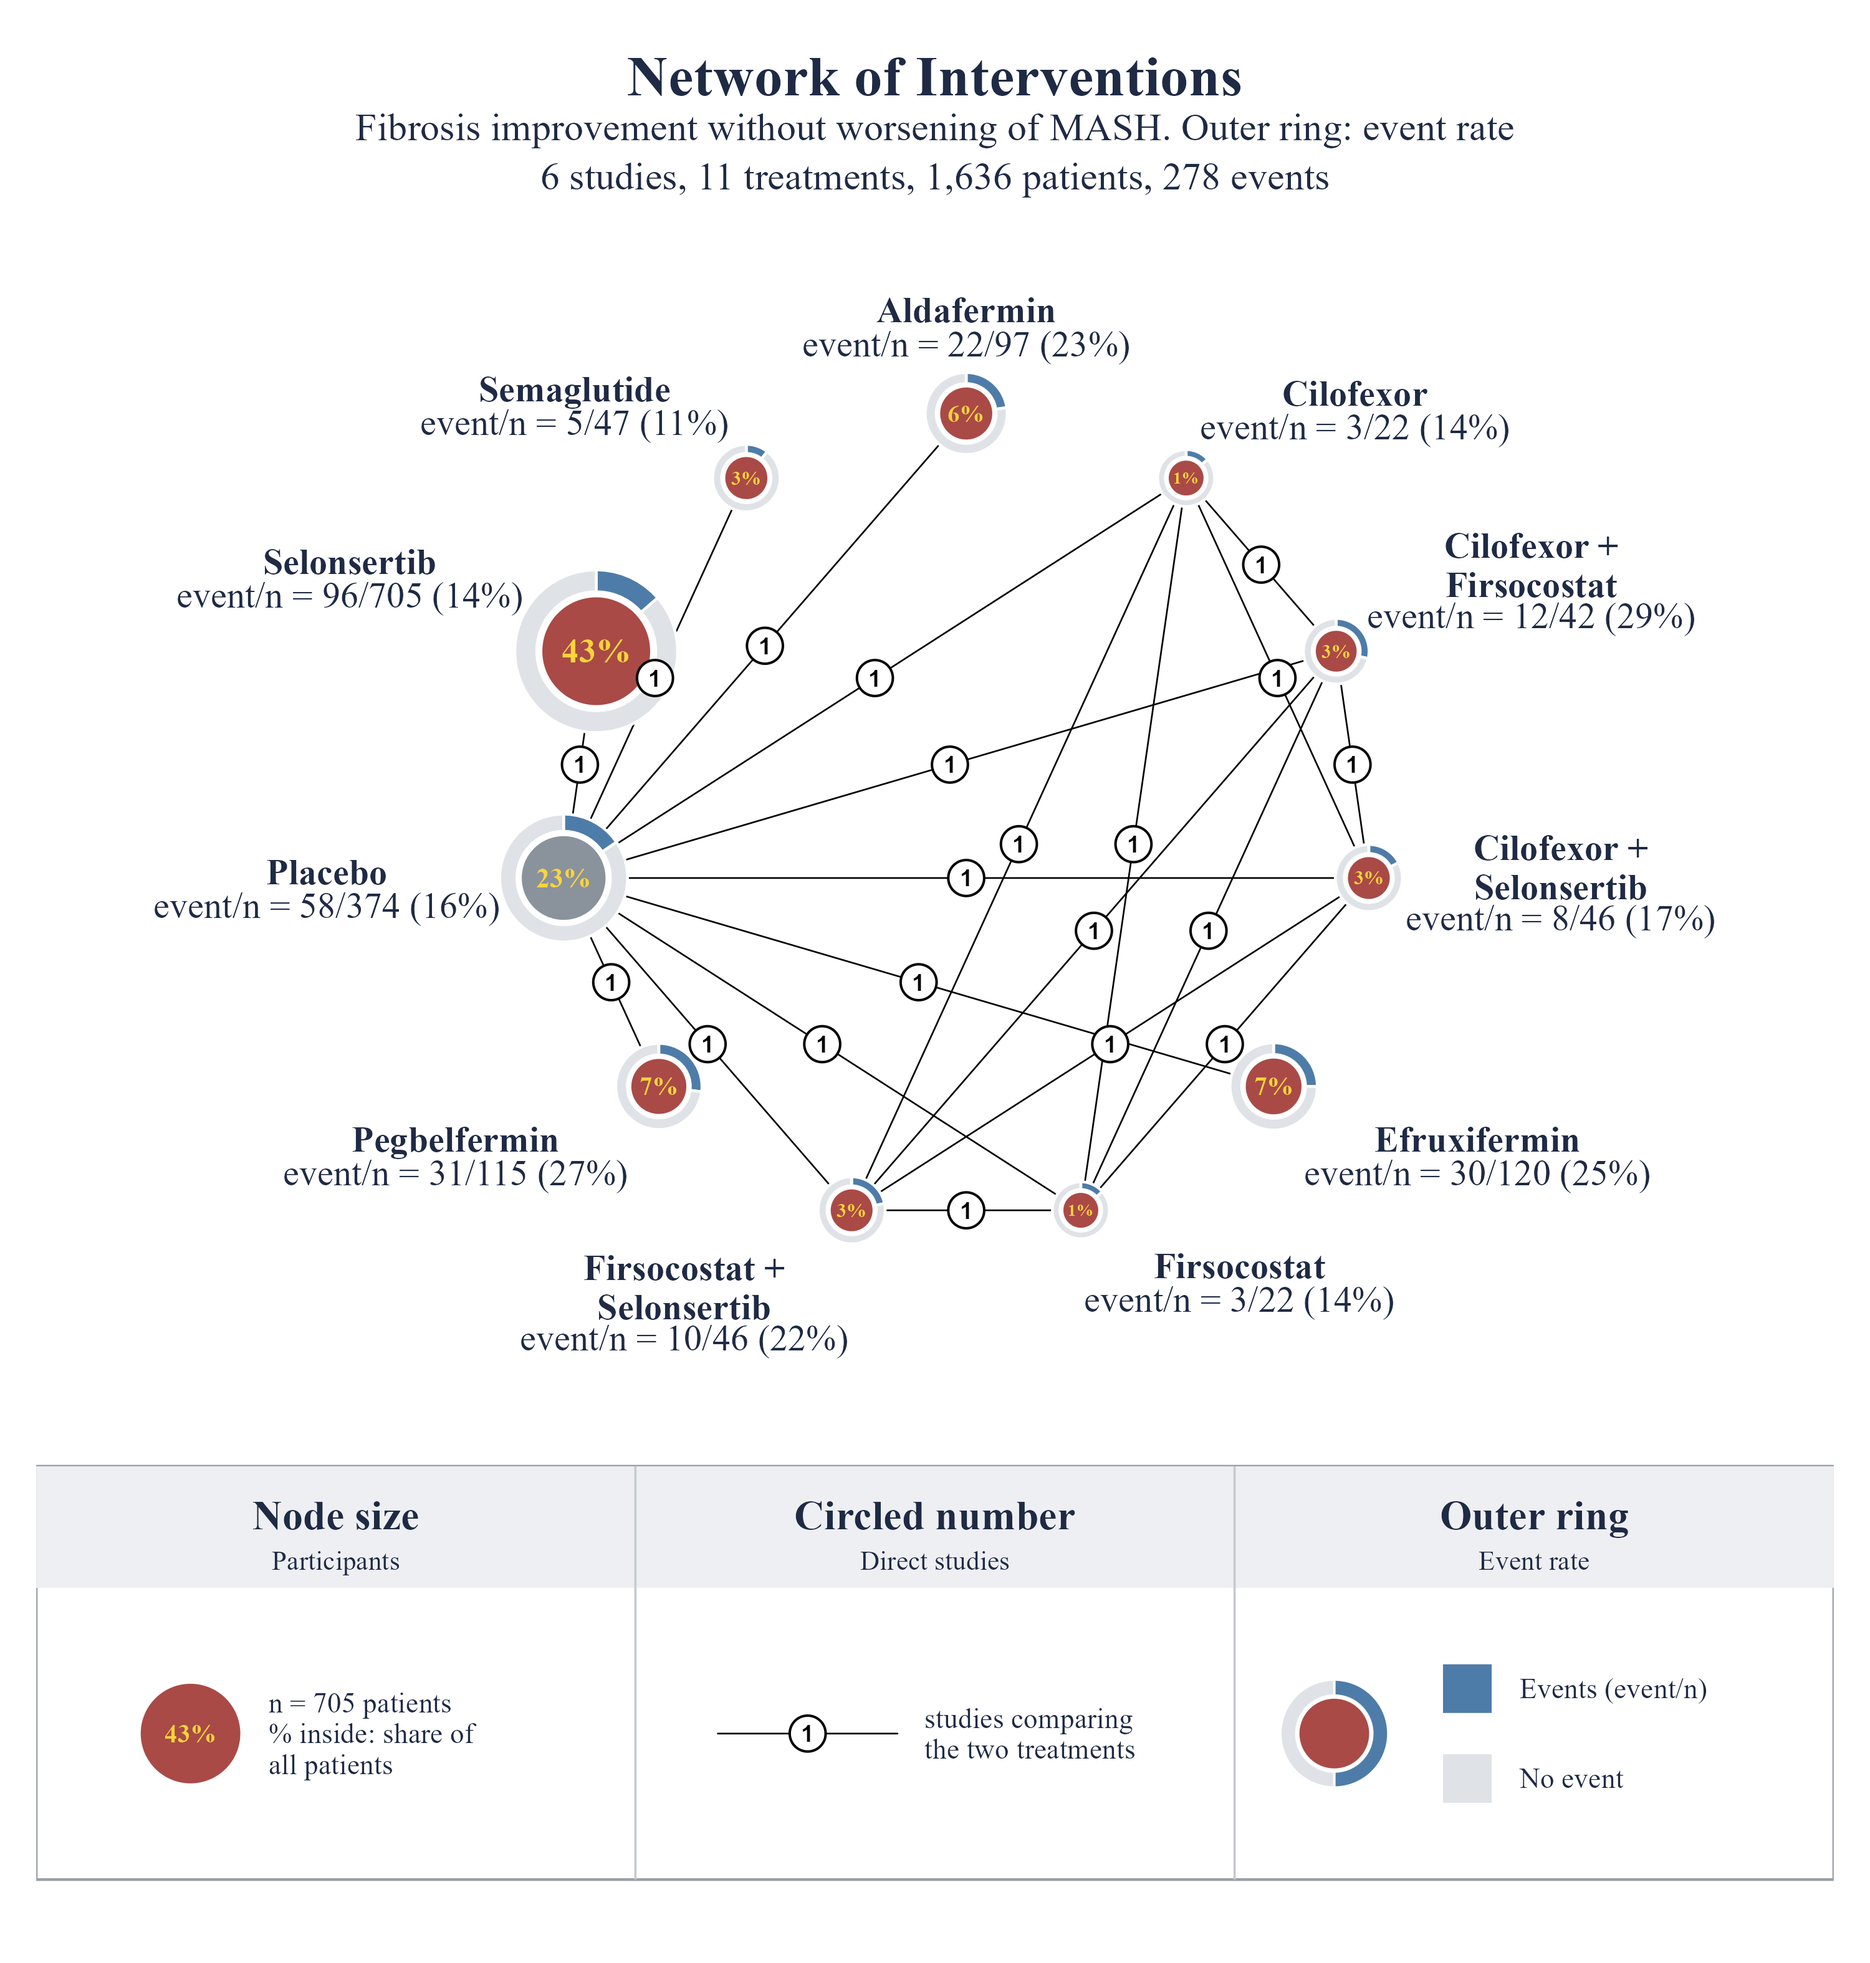
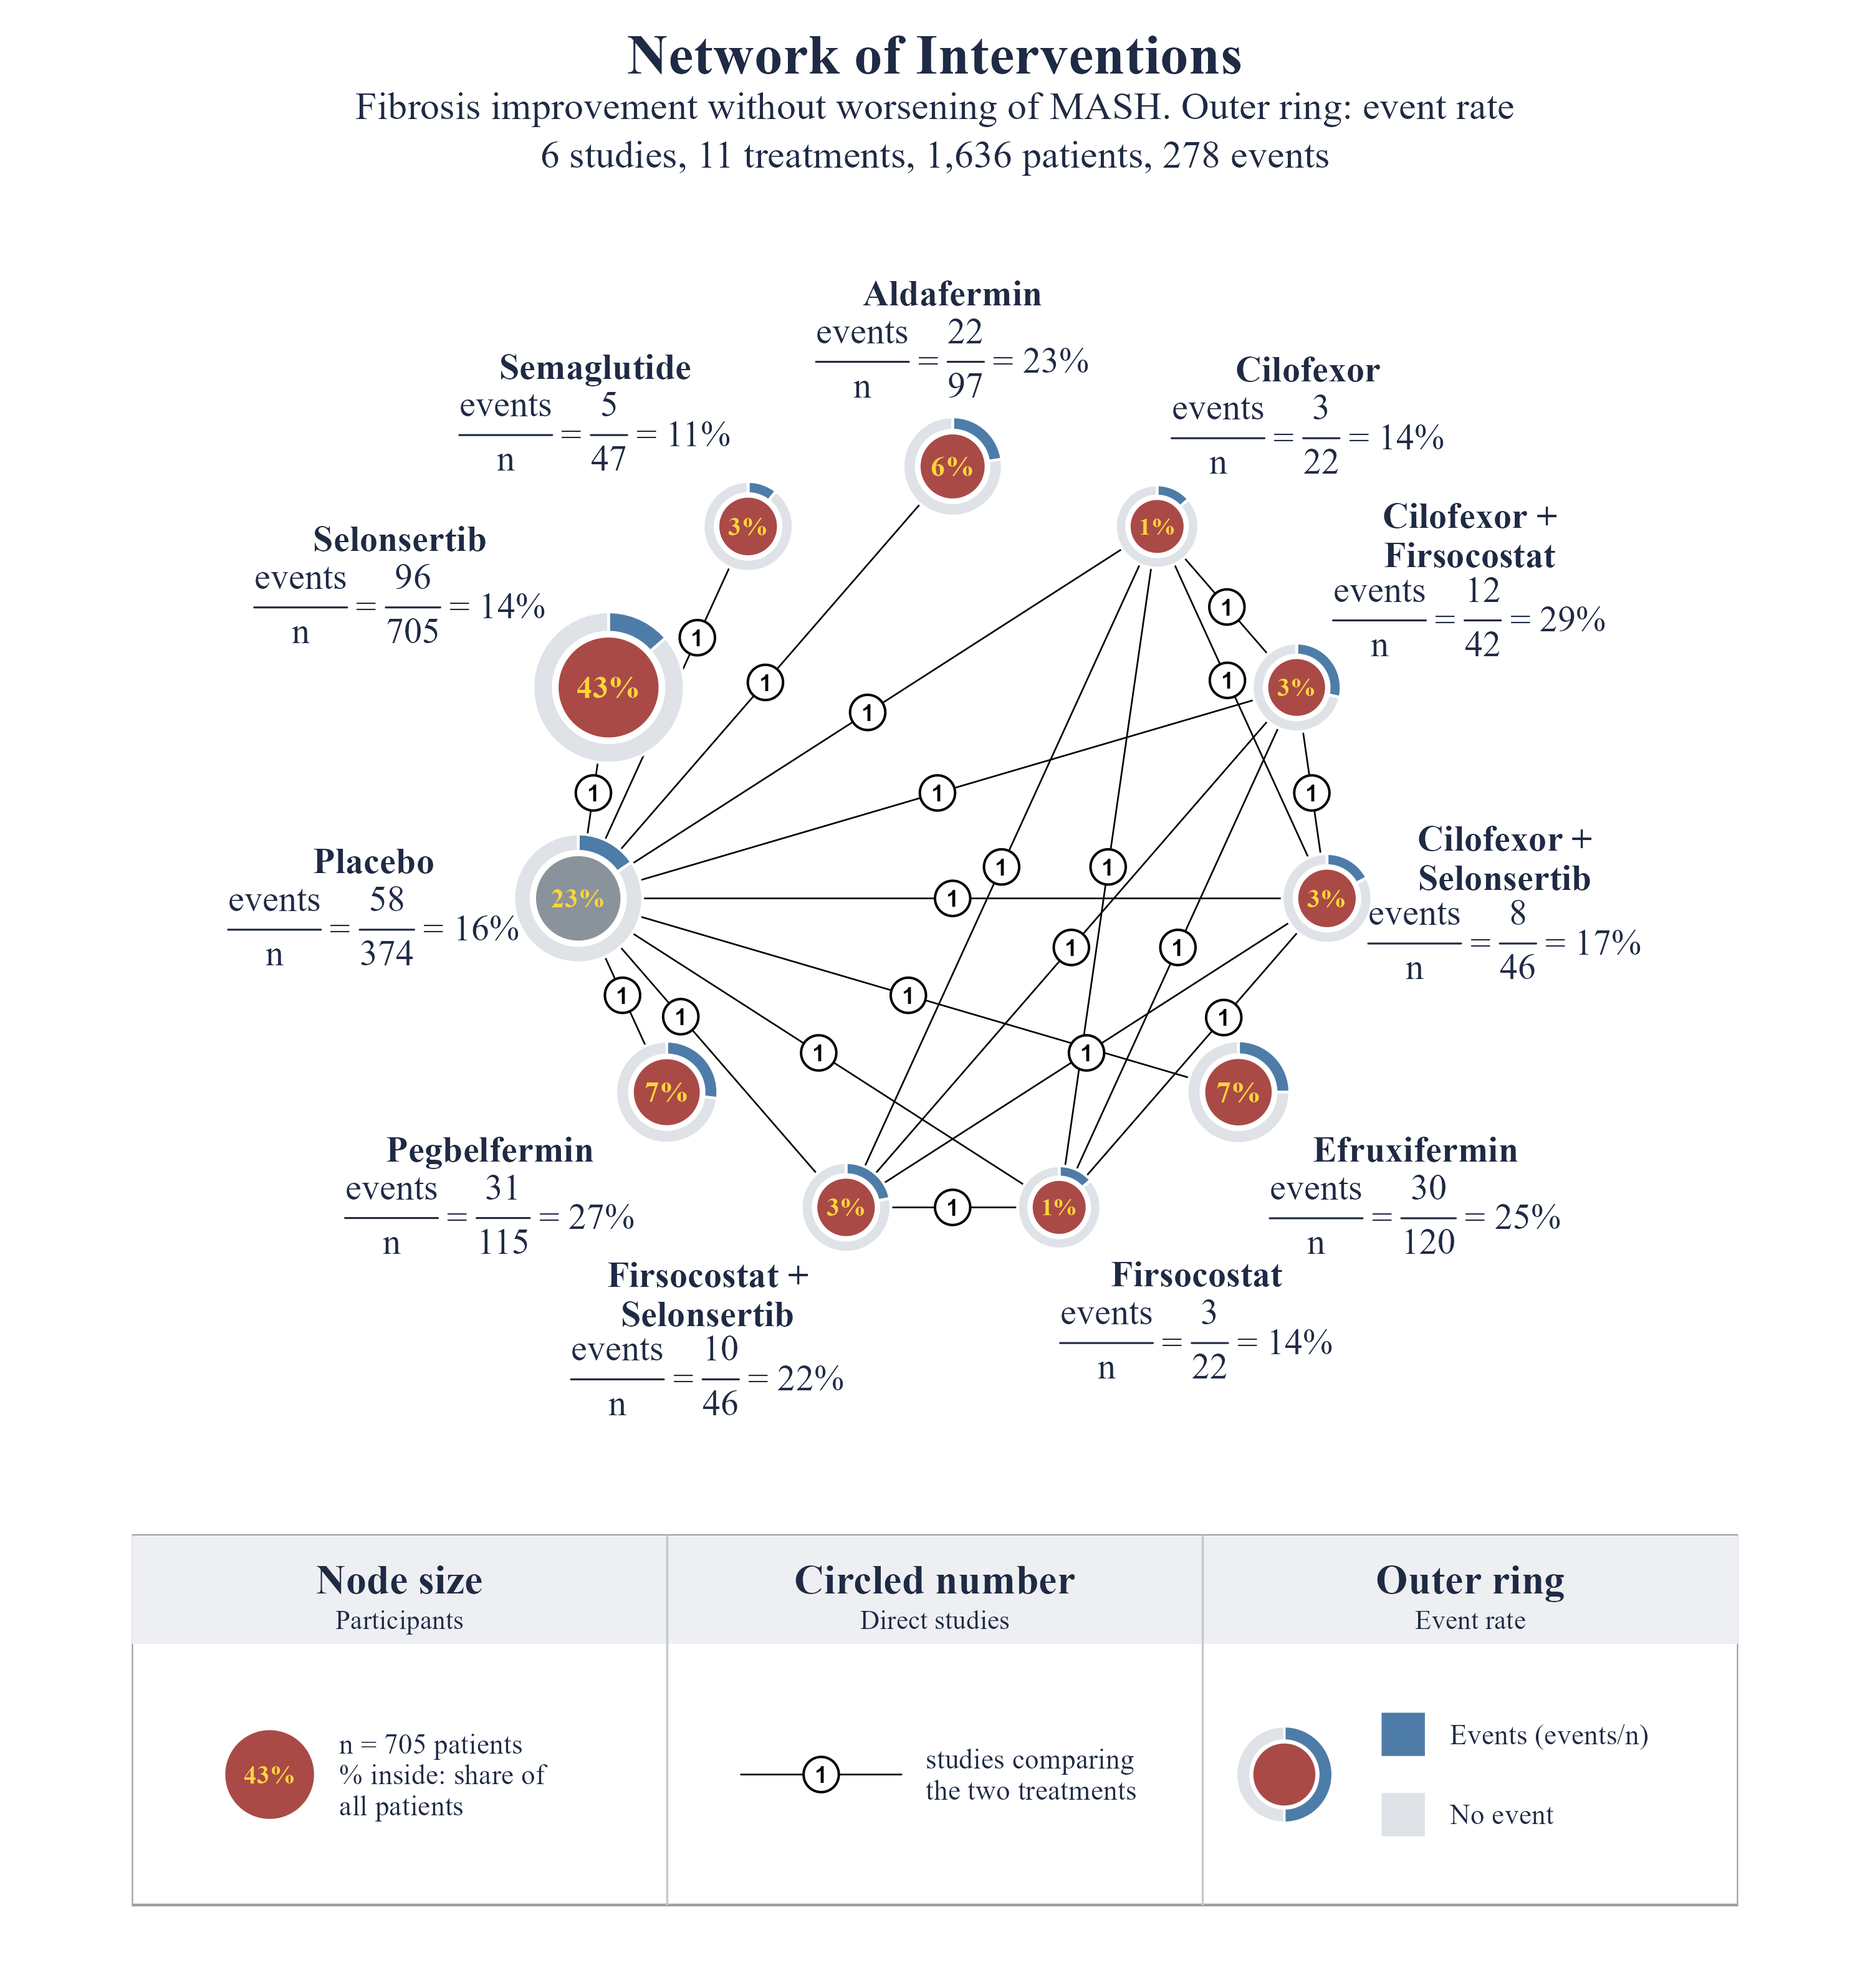
feat: fraction labels, closer node sizes, study counts clear of rings
The count line of binary networks is drawn with plotmath as three parts:
events over n = counts over n = rate ("= 14%"), replacing
"event/n = 96/705 (14%)"; the plain text stays in nodes$nline. Label
blocks reserve room for the taller fraction row.

node_size_range defaults to c(0.11, 0.2): area still follows the sample
size, but the smallest discs are big enough for the share printed inside.

clear_edge_labels() slides a circled study count along its edge when it
would sit on a node or its outer ring.

README figure, tutorial images and docs regenerated.

diff --git a/tutorial/tutorial.html b/tutorial/tutorial.html
@@ -242,7 +242,8 @@ net &lt;- <span class="f">netmeta</span>(p)
       <figure class="plotcard">
         <img src="../man/figures/tutorial-plot.png" alt="Network plot drawn by nmaplot()">
         <figcaption>Result: node area = participants, % inside = share of all patients,
-          event/n under each name, circled number = direct studies, ring = event rate</figcaption>
+          events/n = counts = rate as fractions under each name, circled number = direct studies,
+          ring = event rate</figcaption>
       </figure>
     </div>
 

diff --git a/NEWS.md b/NEWS.md
@@ -1,5 +1,14 @@
 # nmaplots 0.3.0.9000
 
+* The count line of binary networks is drawn as stacked fractions in three
+  parts: events over n, then the numbers (96 over 705), then the rate
+  (`= 14%`). The plain-text form stays in `p$nmaplot$nodes$nline`.
+* Node sizes are closer together (`node_size_range = c(0.11, 0.2)`): area
+  still grows with the sample size, but the smallest nodes are large enough
+  for the share printed inside them.
+* Circled study counts no longer sit on a node or its outer ring: a count
+  that would slides along its edge until it is clear.
+
 * New `nma_gemtc()`: builds a `gemtc::mtc.network()` from treatment names as
   they are. gemtc rejects names with spaces or symbols
   (`"Cilofexor + Firsocostat"`); `nma_gemtc()` makes valid ids internally and

diff --git a/README.md b/README.md
@@ -6,8 +6,9 @@ function.
 `nmaplot()` takes the object returned by `netmeta::netmeta()`, exactly like
 `netmeta::netgraph()`, or a `gemtc` network, model or result, and draws the
 evidence network with ggplot2: node area by sample size, black edges with the
-number of studies in a circle, treatment name plus `event/n = 21/50 (42%)` at
-every node, each node's share of all patients in bold inside the disc, an
+number of studies in a circle, treatment name plus the event rate written as
+fractions (events/n = 21/50 = 42%) at every node, each node's share of all
+patients in bold inside the disc, an
 outer ring with each treatment's event rate on binary networks, and a framed
 legend panel.
 
